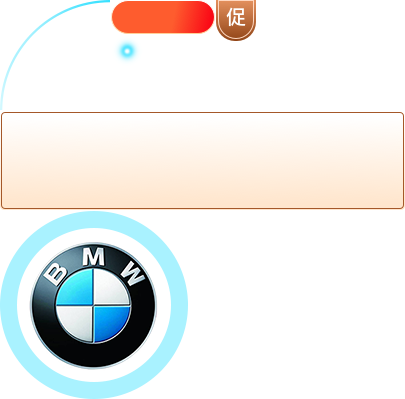
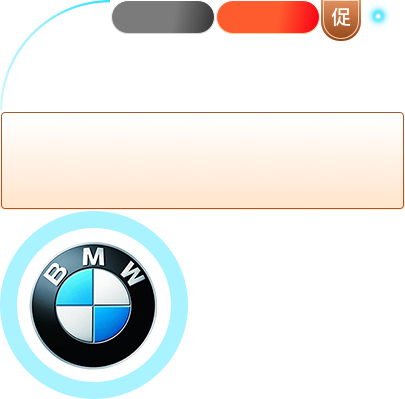
feat：调整一些选项配置

Changed region(s): [[0.2667, 0.0, 0.9778, 0.1504]]

diff --git a/bin/index.html b/bin/index.html
@@ -19,6 +19,7 @@
 </head>
 
 <body>
+  <!-- logo 原型加载 -->
   <div class="loading" id="J-loading">
     <div class="circle-progress">
       <div class="circle-bg"></div>
@@ -33,27 +34,7 @@
       <img src="./res/images/logo.png" alt="" class="logo" />
     </div>
   </div>
-  <!-- <div class="activity-card-container">
-    <div class="activity-card" id="J-activityCard">
-      <div class="activity-card-title">购置税减半至高5000元</div>
-      <div class="activity-card-series">
-        <span class="activity-card-car">荣威RX5</span>
-        <span class="activity-card-stars">
-          <img
[1 lines of base64/hex data omitted]
-          <img
[1 lines of base64/hex data omitted]
-          <img
[1 lines of base64/hex data omitted]
-          <img
[1 lines of base64/hex data omitted]
-          <img
[1 lines of base64/hex data omitted]
-      </div>
-      <div class="activity-card-deco"></div>
-      <a href="javascript:alert('你点击了优惠券')" class="activity-card-button">立即参与</a>
-    </div>
-  </div> -->
+
   <script type="text/javascript">
     function loadLib(url) {
       var script = document.createElement('script')

diff --git a/src/script/GameUI.ts b/src/script/GameUI.ts
@@ -30,6 +30,8 @@ export default class GameUI extends Laya.Scene {
   private _outPos = new Laya.Vector4()
   private coupon: Laya.Image
   private couponStars: Laya.Sprite
+  private couponButton: Laya.Sprite
+  private couponButtonDisabled: Laya.Sprite
 
   private __hallSceneConfig = window.__hallSceneConfig
 
@@ -49,6 +51,8 @@ export default class GameUI extends Laya.Scene {
     this.$loading = document.getElementById('J-loading')
     this.$percentBar = this.$loading.querySelector('.percent-bar')
     this.coupon = this.scene.getChildByName('coupon')
+    this.couponButton = this.coupon.getChildByName('button') as Laya.Sprite
+    this.couponButtonDisabled = this.coupon.getChildByName('buttonDsiabled') as Laya.Sprite
     this.preloadRes()
   }
 
@@ -81,7 +85,10 @@ export default class GameUI extends Laya.Scene {
       ;(this.coupon.getChildByName('car') as Laya.Label).text = coupon.car
       this.drawCouponStars(coupon.star)
       this.coupon.on(Laya.Event.CLICK, this, () => {
-        this.emit('onCouponClick')
+        this.emit('onCouponClick', {
+          disableCouponButton: this.disableCouponButton.bind(this),
+          enableCouponButton: this.enableCouponButton.bind(this),
+        })
       })
     } catch (error) {}
   }
@@ -136,9 +143,24 @@ export default class GameUI extends Laya.Scene {
     this.createCoupon()
     // this.controller.show()
 
+    this.emit('init', {
+      disableCouponButton: this.disableCouponButton.bind(this),
+      enableCouponButton: this.enableCouponButton.bind(this),
+    })
+
     Laya.timer.frameLoop(1, this, () => {
       this.car.transform.lookAt(this.camera.transform.position, new Laya.Vector3(0, 1, 0))
     })
+  }
+
+  disableCouponButton() {
+    this.couponButton.visible = false
+    this.couponButtonDisabled.visible = true
+  }
+
+  enableCouponButton() {
+    this.couponButtonDisabled.visible = false
+    this.couponButton.visible = true
   }
 
   createCamera() {

diff --git a/bin/main.js b/bin/main.js
@@ -1,8 +1,18 @@
 window.__hallSceneConfig = {
-  onProgress: onProgress,
-  onComplete: onComplete,
-  onCouponClick: function () {
+  /**
+   * 场景初始化回调
+   * @param {function} disableCouponButton 禁用优惠券按钮
+   * @param {function} enableCouponButton 启用优惠券按钮
+   * 
+   */
+  init: function ({ disableCouponButton, enableCouponButton }) {
+
+  },
+  onProgress: onProgress, // loading 进程
+  onComplete: onComplete, // loading 结束
+  onCouponClick: function ({ disableCouponButton }) {
     alert('你点击了优惠券')
+    disableCouponButton()
   },
   coupon: {
     star: 3,
@@ -33,6 +43,8 @@ function onProgress(p) {
   $circlePercent.innerText = Math.floor(p * 100) + '%'
   $circlePercent.style.transform = 'translate3d(' + x + 'px, ' + y + 'px, 0)'
 }
+
+onProgress(0)
 
 function onComplete() {
   $loading.classList.add('hide')

diff --git a/libs/LayaAir.d.ts b/libs/LayaAir.d.ts
@@ -53158,6 +53158,7 @@ class VSlider_Example {
 
 interface Window {
 	__hallSceneConfig: {
+		init?: ({ disableCouponButton, enableCouponButton }: { disableCouponButton: () => void, enableCouponButton: () => void }) => void
 		onProgress?: (p: number) => void
 		onComplete?: () => void
 		onCouponClick?: () => void
